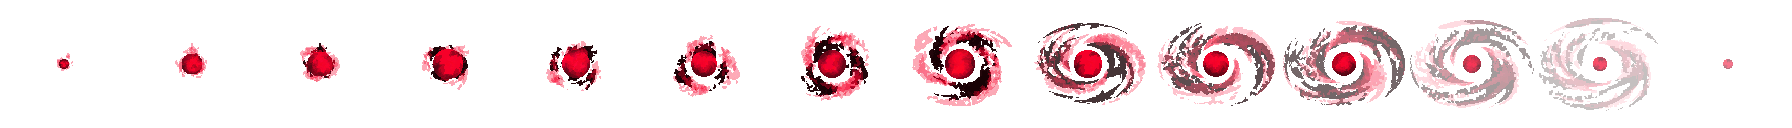
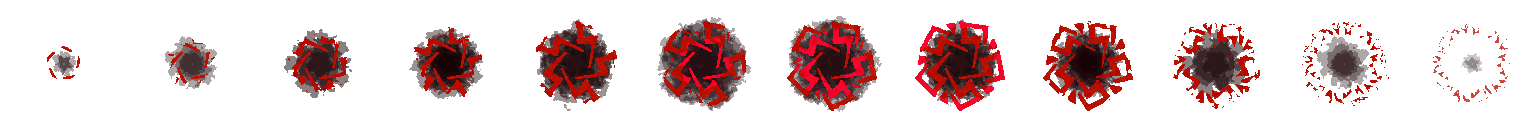
cthulu fixed

diff --git a/src/model/entity/enemy/boss/CthuluModel.java b/src/model/entity/enemy/boss/CthuluModel.java
@@ -13,26 +13,26 @@ import static util.enemy.EnemyAIState.*;
 
 public class CthuluModel extends EnemyModel {
     private final double detectRange = TILE_SIZE * 10;
-    private final double atkRange = TILE_SIZE * 1.5;
-    private long atkCD = 1000;
+    private double atkRange = TILE_SIZE * 1.5;
+    private long atkCD = 2000;
     private long lastAtkTime = 0;
     private boolean hit1Done = false;
     private boolean hit2Done = false;
     private boolean magicDone = false;
-    private boolean fly = false;
     private Random rand = new Random();
 
     private final int atkStartFrame = 3;
     private final int atkStartFrame2 = 11;
     private final int atkEndFrame = 14;
 
-    private boolean isPhase2 = false;
-    private boolean isPhase3 = false;
-    private double flyY;
+    private boolean phase2 = false;
+    private boolean phase3 = false;
+
     private int curSkill = -1;
-    private final int[] hitFrames = { 6, 10, 9, 10 };
-    private final int[] endFrames = { 9, 14, 12, 15 };
+    private final int[] hitFrames = { 8, 6, 8 };
+    private final int[] endFrames = { 13, 11, 14 };
     private Rectangle magicBox;
+    private int magicAniIndex = -1;
 
     public CthuluModel(double x, double y, int width, int height, int maxHealth, int damage) {
         super(x, y, width, height, maxHealth, damage);
@@ -49,16 +49,17 @@ public class CthuluModel extends EnemyModel {
             refreshState();
             return;
         }
-        if (!isPhase2 && (1.0 * getCurHealth() / getMaxHealth() <= 0.5)) {
-            isPhase2 = true;
+        if (!phase2 && (1.0 * getCurHealth() / getMaxHealth() <= 0.5)) {
+            phase2 = true;
             damage *= 2;
+            atkRange *= 3;
         }
 
-        if (!isPhase3 && (1.0 * getCurHealth() / getMaxHealth() <= 0.3)) {
-            isPhase3 = true;
+        if (!phase3 && (1.0 * getCurHealth() / getMaxHealth() <= 0.3)) {
+            phase3 = true;
             curHealth = maxHealth;
-            fly = true;
-            flyY = y - 3 * TILE_SIZE;
+            damage *= 2;
+            atkCD /= 2;
         }
         Rectangle hitbox = getHitbox();
         Rectangle playerBox = player.getHitbox();
@@ -67,16 +68,7 @@ public class CthuluModel extends EnemyModel {
         double distX = centerPlayer - centerEnemy;
         double absX = Math.abs(distX);
 
-        if (isPhase3) {
-            if (fly) {
-                if (y > flyY) {
-                    dy = -1.5 * SCALE;
-                } else {
-                    y = flyY;
-                    dy = 0;
-                    fly = false;
-                }
-            }
+        if (phase2) {
             if (aiState == ATTACK) {
                 dx = 0;
                 tryAttack(player);
@@ -90,7 +82,7 @@ public class CthuluModel extends EnemyModel {
                     aiState = ATTACK;
                     dx = 0;
                     magicDone = false;
-                    curSkill = rand.nextInt(4);
+                    curSkill = rand.nextInt(3);
 
                     int size = (int) (128 * SCALE);
                     int mx = playerBox.x + playerBox.width / 2 - size / 2;
@@ -98,8 +90,9 @@ public class CthuluModel extends EnemyModel {
                     magicBox = new Rectangle(mx, my, size, size);
 
                     aniIndex = 0;
+                    magicAniIndex = -1;
                     lastAtkTime = now;
-
+                    facingRight = distX > 0;
                 } else if (absX <= detectRange) {
                     dx = distX > 0 ? moveSpeed : -moveSpeed;
                     aiState = CHASE;
@@ -108,8 +101,9 @@ public class CthuluModel extends EnemyModel {
                     aiState = IDLE;
                 }
             }
+            refreshState();
+            return;
         }
-
         if (aiState == ATTACK) {
             dx = 0;
             if (aniIndex >= 15) {
@@ -126,6 +120,7 @@ public class CthuluModel extends EnemyModel {
                     aiState = ATTACK;
                     dx = 0;
                     facingRight = distX > 0;
+                    hit1Done = hit2Done = false;
                 } else {
                     dx = 0;
                     aiState = IDLE;
@@ -143,7 +138,7 @@ public class CthuluModel extends EnemyModel {
 
     @Override
     public void refreshState() {
-        if (isPhase3) {
+        if (phase2) {
             switch (aiState) {
                 case ATTACK -> aniState = Cthulu.ATTACK1;
                 case CHASE -> aniState = Cthulu.FLY;
@@ -165,7 +160,7 @@ public class CthuluModel extends EnemyModel {
     private void tryAttack(PlayerModel player) {
         if (aiState != ATTACK)
             return;
-        if (isPhase3) {
+        if (phase2) {
             tryMagicAttack(player);
             return;
         }
@@ -186,7 +181,9 @@ public class CthuluModel extends EnemyModel {
     }
 
     private void tryMagicAttack(PlayerModel player) {
-        int frame = aniIndex;
+        int frame = magicAniIndex;
+        if (frame == -1)
+            return;
         int hitFrame = hitFrames[curSkill];
         int endFrame = endFrames[curSkill];
 
@@ -223,6 +220,14 @@ public class CthuluModel extends EnemyModel {
 
     public Rectangle getMagicBox() {
         return magicBox;
+    }
+
+    public void setMagicAniIndex(int magicAniIndex) {
+        this.magicAniIndex = magicAniIndex;
+    }
+
+    public int getMagicAniIndex() {
+        return magicAniIndex;
     }
 
 }

diff --git a/src/view/renderer/entity/enemy/boss/CthuluRenderer.java b/src/view/renderer/entity/enemy/boss/CthuluRenderer.java
@@ -13,8 +13,7 @@ import static util.enemy.EnemyStateIndex.Cthulu.*;
 import static util.AssetsPath.*;
 
 public class CthuluRenderer extends EnemyRenderer {
-    private int lastSkill = -1;
-    private Animation[] magicAni = new Animation[4];
+    private Animation[] magicAni = new Animation[3];
 
     public CthuluRenderer() {
         aniState = new Animation[MAX_STATE];
@@ -42,17 +41,33 @@ public class CthuluRenderer extends EnemyRenderer {
                 15, false);
         aniState[FLY] = new Animation(
                 ResourceManager.loadSprite(cthuluFly, CTHULU_FRAME.get(FLY), 192, 112),
-                15, false);
+                15, true);
         magicAni[0] = new Animation(
-                ResourceManager.loadSprite(cthuluSkill1, 9, 128, 128), 20, false);
-
+                ResourceManager.loadSprite(cthuluSkill1, 14, 128, 128), 20, false);
         magicAni[1] = new Animation(
-                ResourceManager.loadSprite(cthuluSkill2, 14, 128, 128), 20, false);
-
+                ResourceManager.loadSprite(cthuluSkill2, 12, 128, 128), 25, false);
         magicAni[2] = new Animation(
-                ResourceManager.loadSprite(cthuluSkill3, 12, 128, 128), 20, false);
-        magicAni[3] = new Animation(
-                ResourceManager.loadSprite(cthuluSkill4, 15, 128, 128), 20, false);
+                ResourceManager.loadSprite(cthuluSkill3, 15, 128, 128), 20, false);
+    }
+
+    @Override
+    protected void update(EnemyModel enemy) {
+        super.update(enemy);
+        if (!(enemy instanceof CthuluModel cthulu))
+            return;
+        if (cthulu.getMagicBox() != null && cthulu.getCurSkill() >= 0) {
+            int skill = cthulu.getCurSkill();
+            Animation magic = magicAni[skill];
+
+            if (cthulu.getMagicAniIndex() == -1) {
+                magic.reset();
+            }
+
+            magic.runAni();
+            cthulu.setMagicAniIndex(magic.getFrameIdx());
+        } else {
+            cthulu.setMagicAniIndex(-1);
+        }
     }
 
     @Override
@@ -61,22 +76,18 @@ public class CthuluRenderer extends EnemyRenderer {
             return;
         Animation cur = aniState[enemy.getAniState()];
         if (cthulu.getMagicBox() != null && cthulu.getCurSkill() >= 0) {
-            int skill = cthulu.getCurSkill();
             Animation magic = magicAni[cthulu.getCurSkill()];
-            if (skill != lastSkill) {
-                magic.reset();
-                lastSkill = skill;
-            }
-            magic.runAni();
             Rectangle magicBox = cthulu.getMagicBox();
-            g.drawImage(magic.getCurFrame(), magicBox.x, magicBox.y, magicBox.width, magicBox.height, null);
+
+            int drawX = x + (magicBox.x - (int) cthulu.getX());
+            int drawY = y + (magicBox.y - (int) cthulu.getY());
+
+            g.drawImage(magic.getCurFrame(), drawX, drawY, magicBox.width, magicBox.height, null);
         }
         if (cthulu.isFacingRight()) {
-            g.drawImage(cur.getCurFrame(), x, y,
-                    cthulu.getWidth(), cthulu.getHeight(), null);
+            g.drawImage(cur.getCurFrame(), x, y, cthulu.getWidth(), cthulu.getHeight(), null);
         } else {
-            g.drawImage(cur.getCurFrame(), x + cthulu.getWidth(), y,
-                    -cthulu.getWidth(), cthulu.getHeight(), null);
+            g.drawImage(cur.getCurFrame(), x + cthulu.getWidth(), y, -cthulu.getWidth(), cthulu.getHeight(), null);
         }
     }
 }

diff --git a/src/model/entity/enemy/boss/FrostGuardianModel.java b/src/model/entity/enemy/boss/FrostGuardianModel.java
@@ -18,8 +18,8 @@ public class FrostGuardianModel extends EnemyModel {
     private final int atkStartFrame = 6;
     private final int atkEndFrame = 7;
 
-    private boolean isPhase2 = false;
-    private boolean isPhase3 = false;
+    private boolean phase2 = false;
+    private boolean phase3 = false;
 
     public FrostGuardianModel(double x, double y, int width, int height, int maxHealth, int damage) {
         super(x, y, width, height, maxHealth, damage);
@@ -36,13 +36,13 @@ public class FrostGuardianModel extends EnemyModel {
             refreshState();
             return;
         }
-        if (!isPhase2 && (1.0 * getCurHealth() / getMaxHealth() <= 0.5)) {
-            isPhase2 = true;
+        if (!phase2 && (1.0 * getCurHealth() / getMaxHealth() <= 0.5)) {
+            phase2 = true;
             damage *= 2;
         }
 
-        if (!isPhase3 && (1.0 * getCurHealth() / getMaxHealth() <= 0.3)) {
-            isPhase3 = true;
+        if (!phase3 && (1.0 * getCurHealth() / getMaxHealth() <= 0.3)) {
+            phase3 = true;
             curHealth = maxHealth;
         }
         Rectangle hitbox = getHitbox();
@@ -103,8 +103,8 @@ public class FrostGuardianModel extends EnemyModel {
             Rectangle atkBox = getAttackBox();
             if (frame >= atkStartFrame && frame <= atkEndFrame) {
                 if (atkBox.intersects(player.getHitbox())) {
-                    if (isPhase2) {
-                        double chance = isPhase3 ? 0.9 : 0.7;
+                    if (phase2) {
+                        double chance = phase3 ? 0.9 : 0.7;
                         if (Math.random() < chance && !player.isFrozen()) {
                             player.applyFrozen();
                         }

diff --git a/src/model/entity/enemy/boss/MinotaurModel.java b/src/model/entity/enemy/boss/MinotaurModel.java
@@ -22,8 +22,8 @@ public class MinotaurModel extends EnemyModel {
     private final int atkStartFrame = 3;
     private final int atkEndFrame = 9;
 
-    private boolean isPhase2 = false;
-    private boolean isPhase3 = false;
+    private boolean phase2 = false;
+    private boolean phase3 = false;
 
     public MinotaurModel(double x, double y, int width, int height, int maxHealth, int damage) {
         super(x, y, width, height, maxHealth, damage);
@@ -43,16 +43,16 @@ public class MinotaurModel extends EnemyModel {
         if (invulnerable && now >= invulnerableUntil) {
             invulnerable = false;
         }
-        if (!isPhase2 && (1.0 * getCurHealth() / getMaxHealth() < 0.5)) {
-            isPhase2 = true;
+        if (!phase2 && (1.0 * getCurHealth() / getMaxHealth() < 0.5)) {
+            phase2 = true;
             damage *= 2;
             moveSpeed = 0.8 * SCALE;
             invulnerable = true;
             invulnerableUntil = now + 5000;
         }
 
-        if (!isPhase3 && (1.0 * getCurHealth() / getMaxHealth() < 0.3)) {
-            isPhase3 = true;
+        if (!phase3 && (1.0 * getCurHealth() / getMaxHealth() < 0.3)) {
+            phase3 = true;
             damage *= 2;
             curHealth = maxHealth;
             invulnerable = true;

diff --git a/src/model/entity/enemy/boss/DemonSlimeModel.java b/src/model/entity/enemy/boss/DemonSlimeModel.java
@@ -18,8 +18,8 @@ public class DemonSlimeModel extends EnemyModel {
     private final int atkStartFrame = 9;
     private final int atkEndFrame = 11;
 
-    private boolean isPhase2 = false;
-    private boolean isPhase3 = false;
+    private boolean phase2 = false;
+    private boolean phase3 = false;
 
     public DemonSlimeModel(double x, double y, int width, int height, int maxHealth, int damage) {
         super(x, y, width, height, maxHealth, damage);
@@ -36,15 +36,15 @@ public class DemonSlimeModel extends EnemyModel {
             refreshState();
             return;
         }
-        if (!isPhase2 && (1.0 * getCurHealth() / getMaxHealth() < 0.5)) {
-            isPhase2 = true;
+        if (!phase2 && (1.0 * getCurHealth() / getMaxHealth() < 0.5)) {
+            phase2 = true;
             damage *= 2;
             moveSpeed = 0.9 * SCALE;
             atkCD /= 2;
         }
 
-        if (!isPhase3 && (1.0 * getCurHealth() / getMaxHealth() < 0.3)) {
-            isPhase3 = true;
+        if (!phase3 && (1.0 * getCurHealth() / getMaxHealth() < 0.3)) {
+            phase3 = true;
             damage *= 2;
             curHealth = maxHealth;
         }

diff --git a/src/core/Game.java b/src/core/Game.java
@@ -97,7 +97,8 @@ public class Game implements Runnable {
     }
 
     private void initRenderer() {
-        renderer = new GameRenderer(map, player, curMapIdx, camera, worldController.getEnemyController().getListEnemy(), worldController.getSpikeController().getListSpike(), gameState,
+        renderer = new GameRenderer(map, player, curMapIdx, camera, worldController.getEnemyController().getListEnemy(),
+                worldController.getSpikeController().getListSpike(), gameState,
                 settingsModel);
     }
 

diff --git a/src/view/renderer/state/PlayingRenderer.java b/src/view/renderer/state/PlayingRenderer.java
@@ -102,8 +102,8 @@ public class PlayingRenderer {
         drawBackground(g, xOffset);
         mapRenderer.render(g, map, xOffset, yOffset);
         spikeRenderer.render(g, spikes, xOffset, yOffset);
-        playerRenderer.render(g, player, xOffset, yOffset);
         enemyRenderer.renderAll(g, enemies, xOffset, yOffset);
+        playerRenderer.render(g, player, xOffset, yOffset);
         healthBarRenderer.render(g, player);
         manaBarRenderer.render(g, player);
     }

diff --git a/src/util/AssetsPath.java b/src/util/AssetsPath.java
@@ -69,7 +69,6 @@ public class AssetsPath {
     public static final String cthuluSkill1 = "/enemy/boss/cthulu/MAGIC1.png";
     public static final String cthuluSkill2 = "/enemy/boss/cthulu/MAGIC2.png";
     public static final String cthuluSkill3 = "/enemy/boss/cthulu/MAGIC3.png";
-    public static final String cthuluSkill4 = "/enemy/boss/cthulu/MAGIC4.png";
 
     // 192x128 64/32/71/78
     public static final String frostGuardianIdle = "/enemy/boss/frost_guardian/IDLE.png";

diff --git a/src/core/GameConfig.java b/src/core/GameConfig.java
@@ -12,5 +12,5 @@ public class GameConfig {
     public static final int GAME_WIDTH = TILE_SIZE * TILE_IN_COL;
     public static final int GAME_HEIGHT = TILE_SIZE * TILE_IN_ROW;
     public static final double GRAVITY = 0.1 * SCALE;
-    public static final double MAX_FALL_SPEED = 4.0 * SCALE;
+    public static final double MAX_FALL_SPEED = 6.0 * SCALE;
 }

diff --git a/src/view/renderer/entity/enemy/EnemyRenderer.java b/src/view/renderer/entity/enemy/EnemyRenderer.java
@@ -11,7 +11,7 @@ import view.assets.Animation;
 import static view.renderer.entity.EntityRenderer.drawHB;
 
 public abstract class EnemyRenderer {
-    protected static final boolean debug = false;
+    protected static final boolean debug = true;
     protected Animation[] aniState;
 
     public void updateAll(List<EnemyModel> listEnemy) {

diff --git a/src/controller/entity/EnemyController.java b/src/controller/entity/EnemyController.java
@@ -12,8 +12,6 @@ import model.entity.enemy.boss.CthuluModel;
 import model.entity.enemy.boss.DemonSlimeModel;
 import model.entity.enemy.boss.FrostGuardianModel;
 import model.entity.enemy.boss.MinotaurModel;
-import util.enemy.EnemyStateIndex.Cthulu;
-import util.enemy.EnemyStateIndex.FrostGuardian;
 
 import static core.GameConfig.*;
 
